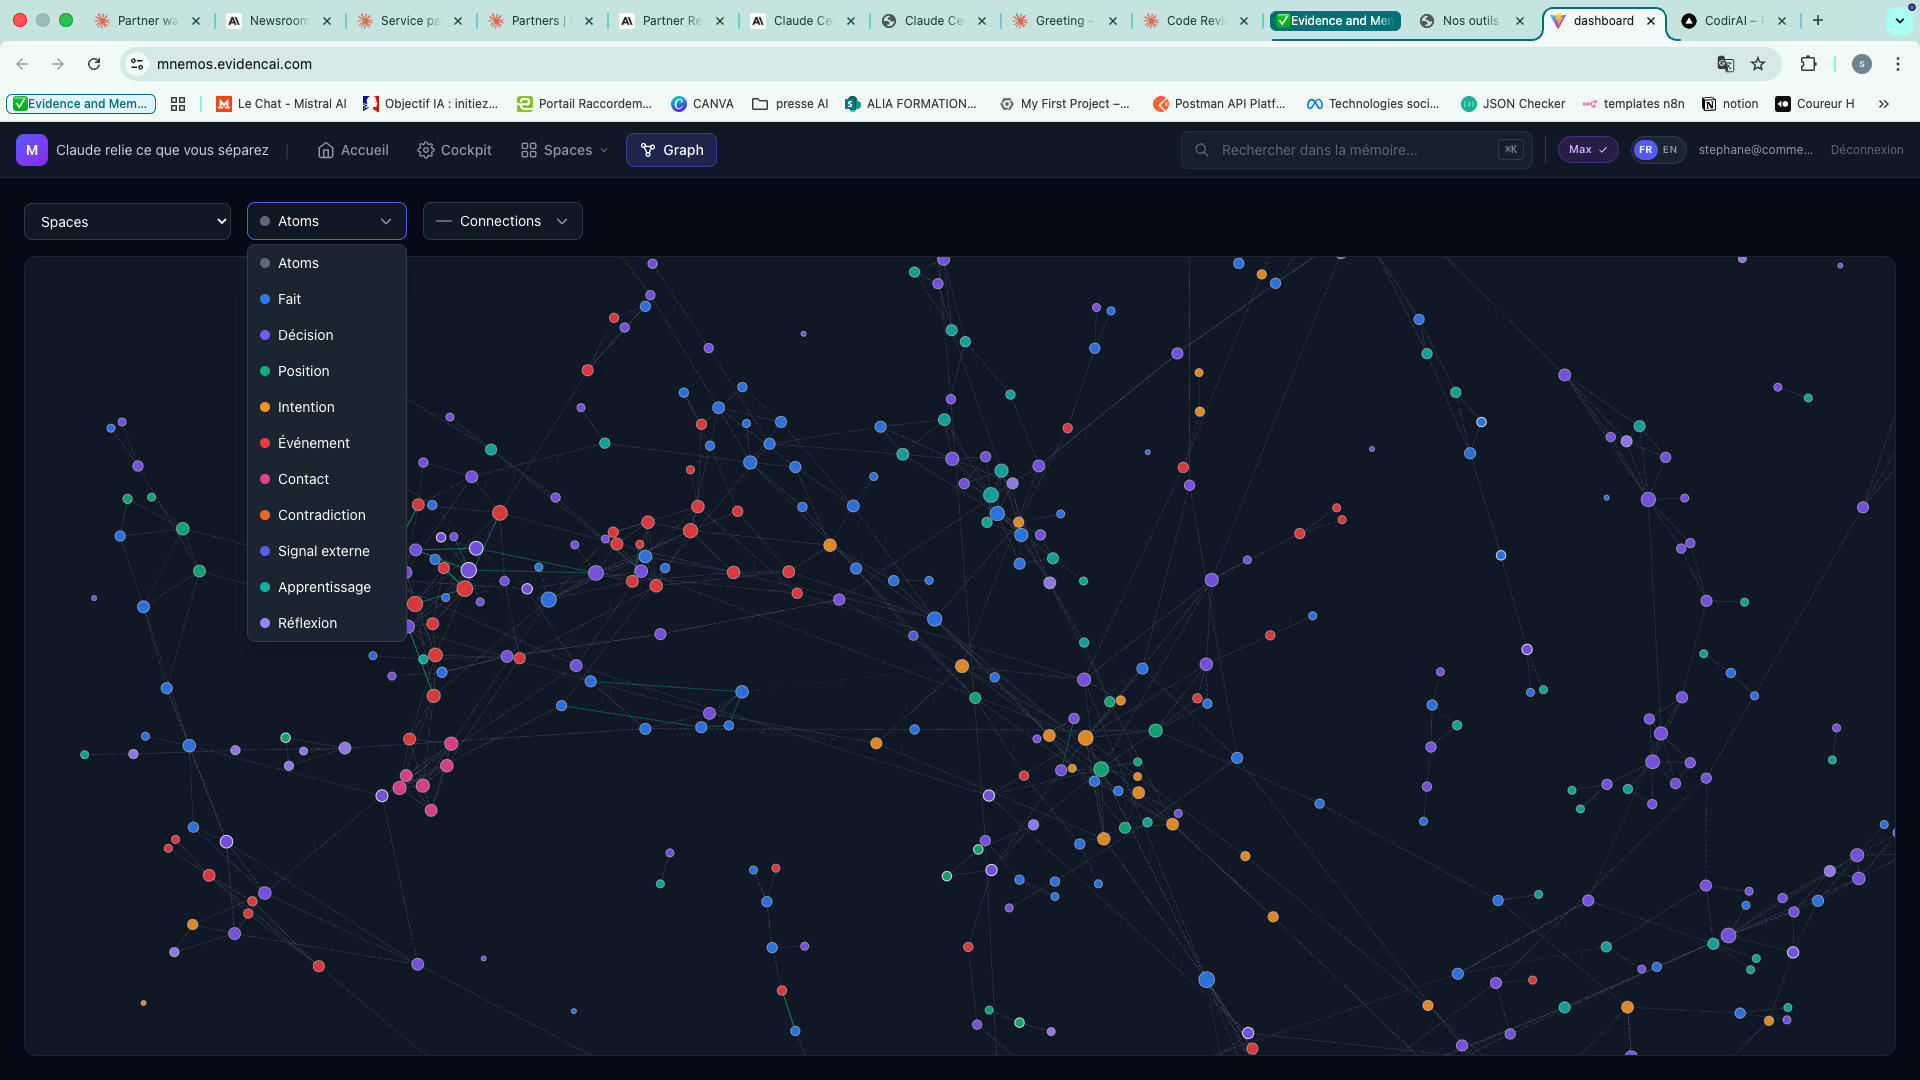
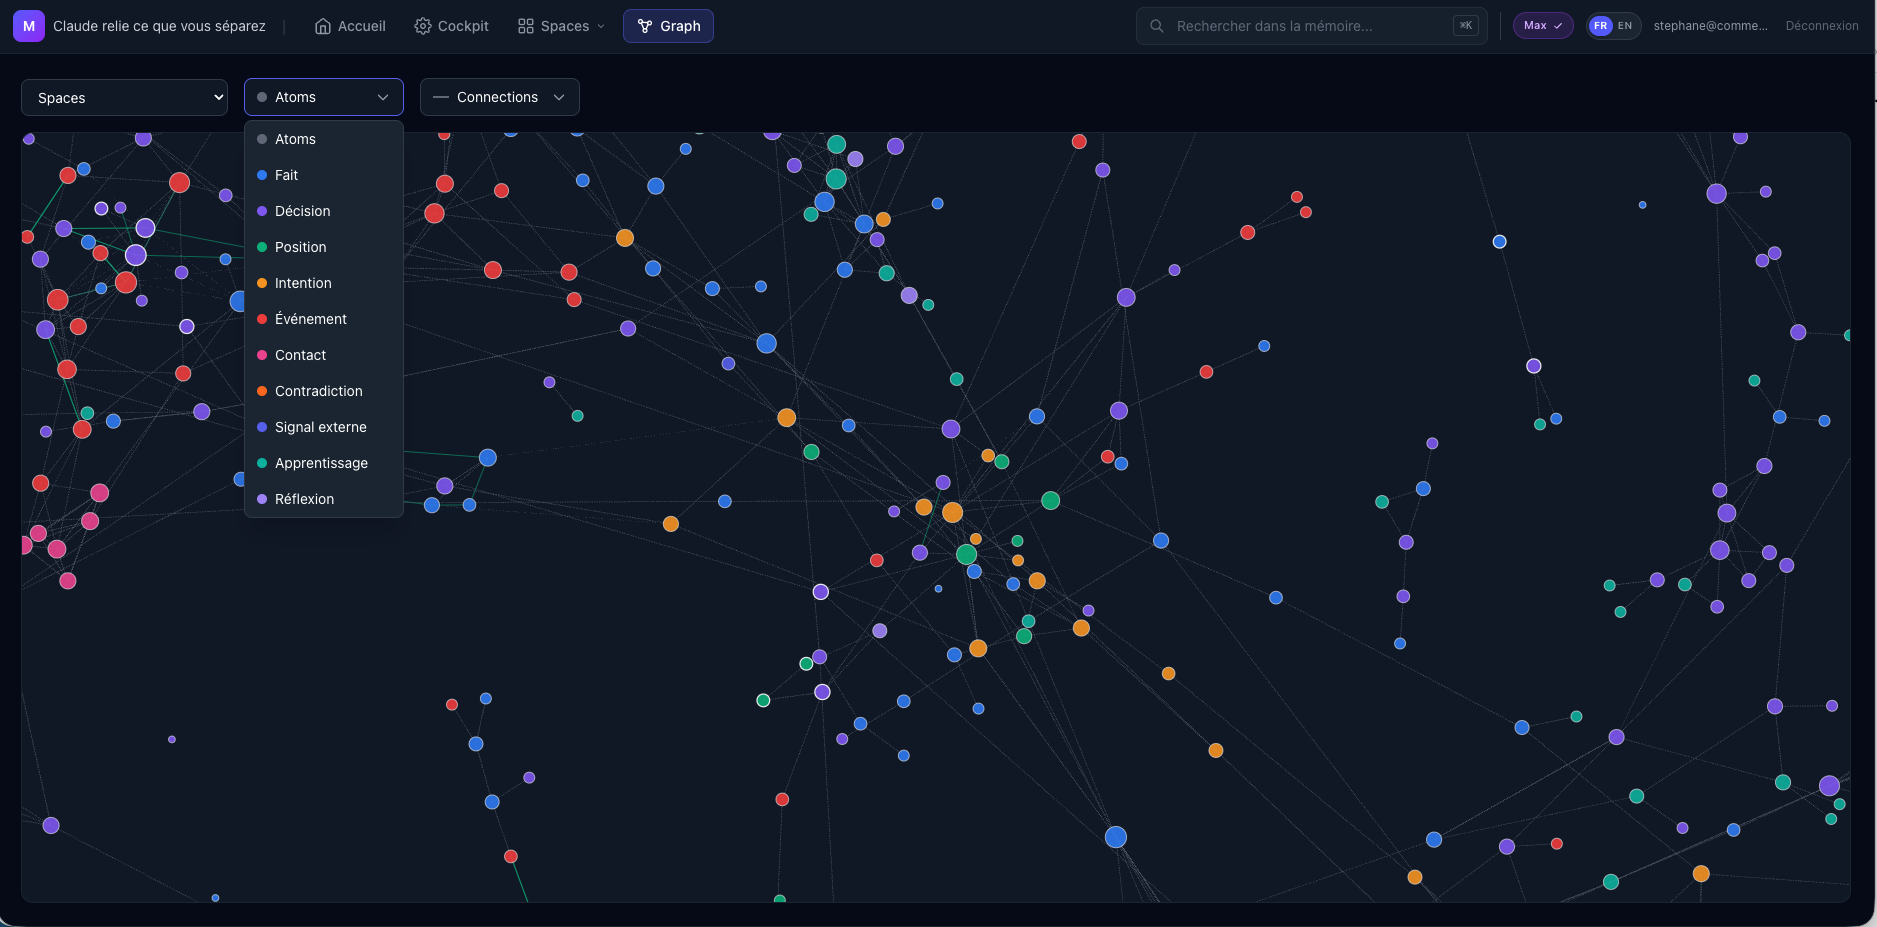
Screenshots Mnemos : nouvelle image graphe + légendes corrigées (Graphe dynamique, Menu, Suivi, Cockpit, Insights)

diff --git a/src/app/outils/page.tsx b/src/app/outils/page.tsx
@@ -140,11 +140,11 @@ function MnemosDetail() {
           <div className="mb-6">
             <h3 className="font-semibold text-bleu-nuit mb-3">Aperçus</h3>
             <ScreenshotGallery screenshots={[
-              { src: "/images/mnemos/mnemos-01.png", alt: "Mnemos - Vue 1", caption: "Dashboard" },
-              { src: "/images/mnemos/mnemos-02.png", alt: "Mnemos - Vue 2", caption: "Espaces de travail" },
-              { src: "/images/mnemos/mnemos-03.png", alt: "Mnemos - Vue 3", caption: "Mémoire continue" },
-              { src: "/images/mnemos/mnemos-04.png", alt: "Mnemos - Vue 4", caption: "Cycle de session" },
-              { src: "/images/mnemos/mnemos-05.jpg", alt: "Mnemos - Vue 5", caption: "Insights" },
+              { src: "/images/mnemos/mnemos-01.png", alt: "Graphe de mémoire dynamique Mnemos", caption: "Graphe de mémoire dynamique" },
+              { src: "/images/mnemos/mnemos-02.png", alt: "Menu général Mnemos", caption: "Menu général" },
+              { src: "/images/mnemos/mnemos-03.png", alt: "Suivi d'activité Mnemos", caption: "Suivi d'activité" },
+              { src: "/images/mnemos/mnemos-04.png", alt: "Cockpit Mnemos", caption: "Cockpit" },
+              { src: "/images/mnemos/mnemos-05.jpg", alt: "Insights Mnemos", caption: "Insights" },
             ]} />
           </div>
         </div>
